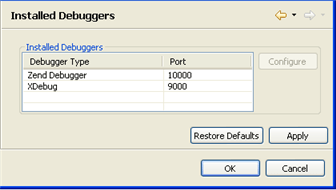
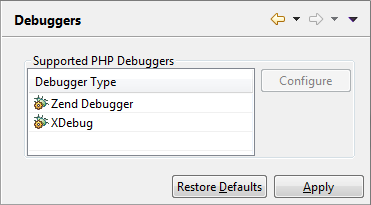
No Bug - Update HELP after recent changes for debuggers

diff --git a/plugins/org.eclipse.php.help/docs/source/008-getting_started/016-basic_tutorial/024-working_with_the_debugger.md b/plugins/org.eclipse.php.help/docs/source/008-getting_started/016-basic_tutorial/024-working_with_the_debugger.md
@@ -49,13 +49,11 @@ This procedure demonstrates how to debug a file using the internal debugger or y
  
  4\. Click the arrow next to the debug button ![debug_icon.png](images/debug_icon.png "debug_icon.png") on the toolbar and select **Debug Configurations...** -or- select **Run | Debug Configurations** from the main menu -or- right-click the file in PHP Explorer view and select **Debug Configurations....**  A Debug dialog will appear.
  
- 5\. Double-click the PHP Script option to create a new debug configuration.
-
-![New Debug Configuration](images/debug_phpscript_configuration.png "New Debug Configuration")
+ 5\. Double-click the PHP CLI Application option to create a new debug configuration.<p>![New Debug Configuration](images/debug_phpscript_configuration.png "New Debug Configuration")</p>
 
  6\. Enter a name for the new configuration.
  
- 7\. To debug the file using your PHP Executable debugger, select the PHP Executable option in the Debugger Location category.
+ 7\. To debug the file using your PHP Executable debugger, select the appropriate option in the **Runtime PHP** category. If no PHP Executables are available, click the **Installed PHPs** button and add a PHP Executable in the [PHP Executable Preferences](../../032-reference/032-preferences/056-php_executables/000-index.md) page.
  
  8\. Under PHP File, click **Browse** and select the "debug" file.
  
@@ -67,8 +65,7 @@ This procedure demonstrates how to debug a file using the internal debugger or y
  
  12\. A number of views will open with information about your script.
  
- 13\. The Debug View is where the debug stack trace is displayed and the debugging process can be monitored and controlled. <br />
-    ![Debug View](images/debug_view.png "Debug View") 
+ 13\. The Debug View is where the debug stack trace is displayed and the debugging process can be monitored and controlled. <p>![Debug View](images/debug_view.png "Debug View")</p> 
  
  14\. The debugging process will currently have stopped where your first `<?php label appears.`
  
@@ -78,13 +75,11 @@ This procedure demonstrates how to debug a file using the internal debugger or y
  
  17\. The Variable view will now display various information about the relevant variables and parameters through which the function was reached.
  
- 18\. In the editor window, place and hold the cursor over $worker_name, $worker_address, and $worker_phone. A tooltip appears displaying the variable values. <br />
-     ![Editor View While Debugging](images/debug_tutorial_editor.png "Editor View While Debugging")
+ 18\. In the editor window, place and hold the cursor over $worker\_name, $worker\_address, and $worker\_phone. A tooltip appears displaying the variable values.<p>![Editor View While Debugging](images/debug_tutorial_editor.png "Editor View While Debugging")</p>
  
  19\. Click Step Return. ![debug_step_return_icon.png](images/debug_step_return_icon.png "debug_step_return_icon.png") The cursor returns to line 103.  The Debug Output view will display the HTML output created up until the breakpoint, while the Browser Output view will show the current output to a browser.
  
- 20\. In the Debug view, click Resume ![resume_icon.png](images/resume_icon.png "resume_icon.png")  until the debugging process is terminated.  Notice that as the debugging process progresses, the Debug Output and Browser Output displays are updated. <br />
- ![Browser Output](images/debug_browser_output.png "Browser Output")
+ 20\. In the Debug view, click Resume ![resume_icon.png](images/resume_icon.png "resume_icon.png")  until the debugging process is terminated.  Notice that as the debugging process progresses, the Debug Output and Browser Output displays are updated.<p>![Browser Output](images/debug_browser_output.png "Browser Output")</p>
  
  21\. The console view will display any errors or warnings about your script. In this case, it will display a Notice about an undefined variable on line 105.
  
@@ -145,19 +140,21 @@ This procedure demonstrates how to debug applications on a server:
  
  4\. Click the arrow next to the debug button ![debug_icon.png](images/debug_icon.png "debug_icon.png")  on the toolbar and select Debug Configurations... -or- right-click the file in PHP explorer or within the file's editor window and select **Debug as | Debug Configurations....**  A Debug dialog will appear.
  
- 5\. Double-click on the PHP Web Page option to create a new debug configuration.
+ 5\. Double-click on the PHP Web Application option to create a new debug configuration.
  
  6\. Enter a name for the new configuration.
  
  7\. Select the Debugger from the Server Debugger drop-down list.
  
- 8\. Select your server from the drop-down list.  If you have not configured a server, click the PHP Servers link to be taken to the [PHP Servers Preferences](../../032-reference/032-preferences/080-php_servers.md) page.
+ 8\. Select your server from the drop-down list.  If you have not configured a server, click the **New** button to open a wizard for creating new PHP server..
  
  9\. Under the File/Project category, click **Browse** and select the "form1" file. This will be the file from which the debugger will start debugging (the 'debug target'.)
  
  10\. Ensure that the URL pointing to the file location is correct.  If this is not correct, unmark the Auto Generate checkbox and manually change the URL.
 
-![New Debug Configuration](images/debug_configuration_webpage.png "New Debug Configuration")
+![New Debug Configuration Server Page](images/debug_configuration_webpage_server.png "New Web Debug Configuration")
+
+![New Debug Configuration Debugger Page](images/debug_configuration_webpage_debugger.png "New Web Debug Configuration")
 
  11\. Click **Apply** and then **Debug**.
  

diff --git a/plugins/org.eclipse.php.help/docs/source/032-reference/032-preferences/032-debug/008-installed_debuggers.md b/plugins/org.eclipse.php.help/docs/source/032-reference/032-preferences/032-debug/008-installed_debuggers.md
@@ -1,38 +1,40 @@
-# Installed Debuggers
+# Debuggers
 
 <!--context:installed_debuggers-->
 
-The Installed Debuggers preferences page allows you to configure your Debugger settings.
+The Debuggers preferences page allows you to configure your Debugger settings.
 
-The Installed Debuggers Preferences page is accessed from **Window | Preferences | PHP | Debug | Installed Debuggers**.
+The Debuggers Preferences page is accessed from **Window | Preferences | PHP | Debug | Debuggers**.
 
 ![installed_debugger_preferences_pdt.png](images/installed_debugger_preferences_pdt.png "installed_debugger_preferences_pdt.png")
 
 <!--ref-start-->
 
-To configure your Zend Debugger settings:
+To e.g. configure your Zend Debugger settings:
 
  1. Select the Zend Debugger.
  2. Click Configure.  The Zend Debugger Settings dialog will open.
 
 ![zend_debugger_settings_pdt.png](images/zend_debugger_settings_pdt.png "zend_debugger_settings_pdt.png")
 
-1\. Configure the following:
+  You can configure the following:
    
- * Debug Port - The port which the Zend Debugger will use. The default port is 10137.
- * Run with Debug info - Mark the checkbox for Debug info, such as the Console view and the Browser Output, to be displayed when a Run configuration is executed.
  * Client Host/IP - Enter the Client Host/IP to which debugging results will be returned. PDT will automatically search for and recognize the  Client Host/IP, but entering a specific Host/IP will speed up the debugging process and decrease the likelihood of session timeouts.
+ * Debug Port - The port which the Zend Debugger will use. The default port is 10137.
+ * Debug Response Timeout (ms) - Debugger response timeout in milliseconds.
+ * Broadcast Port - The Broadcast Port allows your Zend Browser Toolbar to detect your debugging preferences. The Broadcast Port number entered here must match the Broadcast Port entered in your Zend Browser Toolbar. The default port is 20080.
+ * Dummy File Name - This is the file which the PHP Script debugger uses in order to test a PHP debugging session on a specified server. The name should be left as the default dummy.php. However, if this is changed, ensure the change has also been made on your server.
+ * Display debug information when running - Mark the checkbox for Debug info, such as the Console view and the Browser Output, to be displayed when a Run configuration is executed.
+ * Use New Protocol - This check-box is selected by default, and applies usage of the latest Zend Debugger engine. If you have encountered any issues with the Zend Debugger, de-select this check-box to revert to previous Zend Debugger protocol.
+ 
 
 <!--note-start-->
 
 #### Note:
 
-If the field contains too many host/IPs, the session could timeout before a debugging connection is established. Entering a non-existent host/IP could cause the session to terminate.
+Some of the debugger global settings (responsible for establishing a connection with debugger engine) can be overridden at the corresponding debugger owner level (PHP Server or PHP Executable). In case of setting up the individual connection settings for debugger owners, those will be taken into account while triggering debug session from IDE. If there is no possibility to find the debugger owner settings in IDE (e.g. when triggering the debug session outside the IDE with the use of browser toolbars) the global settings will be used to establish the connection.
 
- 1. Click OK to return to the Installed Debuggers Preferences page.
- 2. Click Apply to apply your settings.
- 
-<!--note-end-->
+<!--note-end--> 
 
 <!--ref-end-->
 
@@ -41,7 +43,7 @@ If the field contains too many host/IPs, the session could timeout before a debu
 #### Related Links:
 
  * [Debugging](../../../024-tasks/152-debugging/000-index.md)
- * [Installed Debuggers](008-installed_debuggers.md)
+ * [Debuggers](008-installed_debuggers.md)
  * [Workbench Options](024-launching.md)
  * [PHP Preferences](../../../032-reference/032-preferences/000-index.md)
 

diff --git a/plugins/org.eclipse.php.help/docs/source/024-tasks/152-debugging/032-debugging_a_php_web_page.md b/plugins/org.eclipse.php.help/docs/source/024-tasks/152-debugging/032-debugging_a_php_web_page.md
@@ -18,24 +18,25 @@ Your server must be running the XDebug or Zend Debugger in order for remote debu
 
 1\. Click the arrow next to the debug button ![debug_icon.png](images/debug_icon.png "debug_icon.png") on the toolbar and select Open Debug Dialog -or- select Run | Open Debug Dialog.  A Debug dialog will open.
 
-2\. Double-click the PHP Web Page option to create a new debug configuration. <br />![debug_configuration_webpage.png](images/debug_configuration_webpage.png "debug_configuration_webpage.png")
+2\. Double-click the PHP Web Application option to create a new debug configuration.<p>![Web Debug Server Page](images/debug_configuration_webpage_server.png "Web Debug Server Page")</p>
  
 3\. Enter a name for the new configuration.
 
-4\. Select the Server Debugger to be used . PDT supports both the Zend Debugger and XDebug.
+4\. Select your server from the PHP Server list.  If you have not yet configured your server, click New.  The PHP Server Creation Wizard will open.  Configure your server by following the instructions on '[adding a new server](../../032-reference/032-preferences/080-php_servers.md#Adding_servers)' under the [PHP Servers Preferences](../../032-reference/032-preferences/080-php_servers.md) page.
 
-5\. Select your server from the PHP Server list.  If you have not yet configured your server, click New.  The PHP Server Creation Wizard will open.  Configure your server by following the instructions on '[adding a new server](../../032-reference/032-preferences/080-php_servers.md#Adding_servers)' under the [PHP Servers Preferences](../../032-reference/032-preferences/080-php_servers.md) page.
-
-6\. To check whether your server connection is correctly configured, and that PDT can communicate with your server debugger, click the 'Check Debug Server Connection' button.
-
-7\. Under PHP File, click Browse and select your 'debug target' file (the file from which the debugging process will start.)
+5\. Under File, click Browse and select your 'debug target' file (the file from which the debugging process will start.)
  
-8\. Select whether the Debugger should stop at the first line of code by marking/unmarking the 'Break at First Line' checkbox.
+6\. The URL to be debugged will have been automatically created based on the file name and your server address. If the URL does not point to your debug target's location, unmark the Auto Generate checkbox and modify the URL.
+
+7\. To set up the options of a debugger that is attached to chosen PHP server, click on the **Debugger** tab.<p>![Web Debug Debugger Page](images/debug_configuration_webpage_debugger.png "Web Debug Debugger Page")</p>
+
+8\. To check whether your server connection is correctly configured, and that PDT can communicate with your server debugger, click the 'Test' button.
+
+9\. Select whether the Debugger should stop at the first line of code by marking/unmarking the 'Break at First Line' checkbox.
  
-9\. The URL to be debugged will have been automatically created based on the file name and your server address. If the URL does not point to your debug target's location, unmark the Auto Generate checkbox and modify the URL.
+10\. You can set some additional options that are related to the debugger type, e.g. the following options are available for Zend Debugger:
 
-10\. For further Debug options, select the Advanced tab, which has the following options:<br /> ![debug_new_phpwebpage_advanced_config_pdt.png](images/debug_new_phpwebpage_advanced_config_pdt.png "debug_new_phpwebpage_advanced_config_pdt.png")
-
+ * Debug Through SSH Tunnel - Mark if you would like to debug with the use of SSH tunnel.
  * Open in Browser - Mark if you would like the application to be displayed in PDT 's internal browser while it is debugged.
  * Choose whether to:
  * Debug All Pages - The specified page and all the pages linked to it are debugged. The browser waits for the debug of each page before displaying it.

diff --git a/plugins/org.eclipse.php.help/docs/source/024-tasks/152-debugging/024-locally_debugging_a_php_script.md b/plugins/org.eclipse.php.help/docs/source/024-tasks/152-debugging/024-locally_debugging_a_php_script.md
@@ -19,15 +19,14 @@ To locally debug a PHP Script:
  1. Set breakpoints at the relevant places in the file that you would like to debug by double-clicking the vertical marker bar to the left of the editor.
  2. Save the file.
  3. Click the arrow next to the debug button ![debug_icon.png](images/debug_icon.png "debug_icon.png") on the toolbar and select Debug Configurations... -or- select **Run | Debug Configurations....**  A Debug dialog will open.
- 4. Double-click the PHP Script option to create a new debug configuration. <br />![New Debug Configuration](images/debug_phpscript_configuration.png "New Debug Configuration")
+ 4. Double-click the PHP CLI Application option to create a new debug configuration.<p>![New Debug Configuration](images/debug_phpscript_configuration.png "New Debug Configuration")</p>
  5. Enter a name for the new configuration.
- 6. S elect the required PHP executable.   If no PHP Executables are listed, click the PHP Executable link and add a PHP Executable in the [PHP Executable Preferences](../../032-reference/032-preferences/056-php_executables/000-index.md) page. The PHP Executables must match the Debugger type.
- 7. Select the PHP Debugger to be used. PDT supports both the Zend Debugger and XDebug.
- 8. Enter your PHP file in the "PHP File" text field, or click **Browse** and select your file
- 9. Marking the "Breakpoint" checkbox will result in the debugging process pausing at the first line of code.
- 10. If necessary, you can add arguments in the PHP Script Arguments tab to simulate command line inputs.
- 11. Click **Apply**and then **Debug**.
- 12. Click **Yes**if asked whether to open the PHP Debug Perspective.
+ 6. Select the appropriate PHP Executable in **Runtime PHP** section. If no PHP Executables are available, click the **Installed PHPs** button and add a PHP Executable in the [PHP Executable Preferences](../../032-reference/032-preferences/056-php_executables/000-index.md) page.
+ 7. Enter your PHP file in the "PHP File" text field, or click **Browse** and select your file
+ 8. Marking the "Break at First Line" checkbox will result in the debugging process pausing at the first line of code.
+ 9. If necessary, you can add arguments in the Script Arguments section to simulate command line inputs.
+ 10. Click **Apply** and then **Debug**.
+ 11. Click **Yes** if asked whether to open the PHP Debug Perspective.
 
 A number of views will open with relevant debug information.
 

diff --git a/plugins/org.eclipse.php.help/docs/source/032-reference/032-preferences/056-php_executables/000-index.md b/plugins/org.eclipse.php.help/docs/source/032-reference/032-preferences/056-php_executables/000-index.md
@@ -14,7 +14,7 @@ You must configure a PHP Executable before you can debug locally.
 
 <!--note-end-->
 
-The PHP Executables Preferences Preferences page is accessed from Window | Preferences | PHP | PHP Executables Preferences .
+The PHP Executables Preferences Preferences page is accessed from Window | Preferences | PHP | PHP Executables.
 
 ![php_executables.png](images/php_executables.png "php_executables.png")
 
@@ -22,17 +22,17 @@ The PHP Executables Preferences Preferences page is accessed from Window | Prefe
 
 To add a PHP executable to the list:
 
- 1. Click Add.  The Add PHP Executable dialog will appear.
-
-![php_executable_add_pdt.png](images/php_executable_add_pdt.png "php_executable_add_pdt.png")
-
+ 1. Click Add.  The Add PHP Executable dialog will appear.<p>![php_executable_add_pdt.png](images/php_executable_add_pdt.png "php_executable_add_pdt.png")</p>
  2. Enter a name for the PHP Executable.
  3. In the Executable path selection, enter the location of the PHP executable on your file system.
  4. Select the PHP ini file to be associated with the PHP Executable by clicking Browse (optional).
- 5. Select the PHP Debugger to be used with the executable. By default this will be the Zend Debugger.
- 6. Click Finish.
+ 5. Press Next to open page with debugger settings.<p>![php_executable_add_debug_pdt.png](images/php_executable_add_debug_pdt.png "php_executable_add_debug_pdt.png")</p>
+ 6. If there is a need, change the default debugger connection settings.
+ 7. Click Finish.
 
 The PHP executable will be added to your list.
+
+![php_executables_added.png](images/php_executables_added.png "php_executables_added.png")
 
 <!--ref-end-->
 
@@ -47,8 +47,6 @@ To search for a PHP executable on your local file system:
 Any found PHP executables will be added to the list.
 
 To change the name of the new PHP executable, select it from the list and click Edit.
-
-If a PHP executable is not found in the specified directory, select a different location or add the PHP Executable manually by following the instructions under '[To add a PHP executable to the list](#add-executable)', above.
 
 <!--ref-end-->
 

diff --git a/plugins/org.eclipse.php.help/docs/source/024-tasks/152-debugging/048-troubleshooting_remote_debugging/000-index.md b/plugins/org.eclipse.php.help/docs/source/024-tasks/152-debugging/048-troubleshooting_remote_debugging/000-index.md
@@ -19,7 +19,7 @@ To set up communication between PDT and the server on which you are debugging:
  1. Ensure the Zend Debugger is installed on your server.  The Zend Debugger comes bundled with [Zend Server](http://www.zend.com/en/products/server), [Zend Core](http://www.zend.com/en/products/core/) and [Zend Platform](http://www.zend.com/en/products/platform/), but can also be downloaded as a separate component from [http://www.zend.com/en/products/studio/downloads](http://www.zend.com/en/products/studio/downloads).
  2. Ensure the machine on which your PDT is installed is an allowed host for your debugger.   See [Setting your PDT to be an Allowed Host](008-setting_your_zend_studio_for_eclipse_to_be_an_allowed_host.md) for more information.
  3. In PDT , configure your server according to the instructions under [Adding Servers](../../../032-reference/032-preferences/080-php_servers.md#Adding_servers) in the [PHP Servers Preferences](../../../032-reference/032-preferences/080-php_servers.md).
- 4. Ensure the correct settings are configured in your [Debug Preferences](../../../032-reference/032-preferences/032-debug/000-index.md) and [Installed Debuggers Preferences](../../../032-reference/032-preferences/032-debug/008-installed_debuggers.md) pages.
+ 4. Ensure the correct settings are configured in your [Debug Preferences](../../../032-reference/032-preferences/032-debug/000-index.md) and [Debuggers Preferences](../../../032-reference/032-preferences/032-debug/008-installed_debuggers.md) pages.
  5. [Ensure you have a dummy.php file](016-ensuring_the_placement_of_dummy_php.md) in your remote server's document root.
 
 <!--ref-end-->

diff --git a/plugins/org.eclipse.php.help/docs/source/032-reference/032-preferences/080-php_servers.md b/plugins/org.eclipse.php.help/docs/source/032-reference/032-preferences/080-php_servers.md
@@ -14,16 +14,20 @@ One server configuration setting is configured by default and will point to the 
 
 To add a new server to the list or edit an existing server configuration:
 
- 1. Click New  -Or- select an existing server and click Edit. <br /> ![PHP Server Creation page](images/php_servers_new_pdt.png "PHP Server Creation page")
+ 1. Click New  -Or- select an existing server and click Edit.<p>![PHP Server Creation page](images/php_servers_new_pdt.png "PHP Server Creation page")</p>
  2. Enter the name of your server.
  3. Enter the URL that points to its document root.
- 4. Click  Next.  The Server Path Mapping dialog appears.
- 5. If you would like to map a path on your server to a local path, click Add and enter:
+ 4. Click Next. The Debugger settings page should appear.<p>![PHP Server Creation page](images/php_servers_new_debug_pdt.png "PHP Server Creation page")</p>
+ 5. If there is a need, change the default debugger type and connection settings.
+ 6. Click Next. The Server Path Mapping page should appear.
+ 7. If you would like to map a path on your server to a local path, click Add and enter:
     * The path on your server.
     * The path you would like to map it to in your Workspace or on your File System.  See [Adding a Server Location Path Map](../../024-tasks/184-adding_a_server_path_map.md) for more information.
- 6. Click Finish.
+ 8. Click Finish.
 
-Your new server configuration will be added to the server list .
+Your new server configuration will be added to the server list.
+
+![PHP Servers Preferences](images/php_servers_added_pdt.png "PHP Servers Preferences")
 
 <!--ref-end-->
 

diff --git a/plugins/org.eclipse.php.help/docs/source/032-reference/032-preferences/032-debug/000-index.md b/plugins/org.eclipse.php.help/docs/source/032-reference/032-preferences/032-debug/000-index.md
@@ -12,8 +12,7 @@ The settings that can be configured from the debug preferences page are:
 
 Default Settings
 
- * PHP Debugger - Select which debugger will be used by default.
- * Server - Choose which server the debugger will use by default. Click the "PHP Servers" category to be taken to the PHP Servers management page. For more on this, see [PHP Servers.](../../../032-reference/032-preferences/080-php_servers.md)
+ * PHP Server - Choose which server the debugger will use by default. Click the "PHP Servers" category to be taken to the PHP Servers management page. For more on this, see [PHP Servers.](../../../032-reference/032-preferences/080-php_servers.md)
  * PHP Executable - Choose the required default PHP version. Click the "PHP Executables" category to be taken to the PHP Executables management page. For more on this, see [PHP Executables.](../../../032-reference/032-preferences/056-php_executables/000-index.md)
 
 Encoding Settings
@@ -47,7 +46,7 @@ To apply Debug Preferences settings to a specific project only:
 #### Related Links:
 
  * [Debugging](../../../024-tasks/152-debugging/000-index.md)
- * [Installed Debuggers](008-installed_debuggers.md)
+ * [Debuggers](008-installed_debuggers.md)
  * [Workbench Options](024-launching.md)
  * [PHP Preferences](../../../032-reference/032-preferences/000-index.md)
 

diff --git a/plugins/org.eclipse.php.help/docs/source/024-tasks/152-debugging/048-troubleshooting_remote_debugging/008-setting_your_zend_studio_for_eclipse_to_be_an_allowed_host.md b/plugins/org.eclipse.php.help/docs/source/024-tasks/152-debugging/048-troubleshooting_remote_debugging/008-setting_your_zend_studio_for_eclipse_to_be_an_allowed_host.md
@@ -11,9 +11,9 @@ If only the standalone Zend Debugger is installed on your server:
 To configure your debugger to allow your PDT to debug:
 
  1. Open your php.ini file.
- 2. Edit the zend_debugger.allow_hosts parameters to include the IP address of the machine on which your PDT is installed.  e.g. zend_debugger.allow_hosts=127.0.0.1/32
- 3. Ensure the address is not in your zend_debugger.deny_hosts parameter list.
- 4. Set the Debug Server to expose itself to remote clients by setting the zend_debugger.expose_remotely parameter to Always.  (e.g. zend_debugger.expose_remotely=always).
+ 2. Edit the zend\_debugger.allow\_hosts parameters to include the IP address of the machine on which your PDT is installed.  e.g. zend\_debugger.allow\_hosts=127.0.0.1/32
+ 3. Ensure the address is not in your zend\_debugger.deny\_hosts parameter list.
+ 4. Set the Debug Server to expose itself to remote clients by setting the zend\_debugger.expose\_remotely parameter to Always.  (e.g. zend\_debugger.expose\_remotely=always).
  5. Save the file.
  6. Restart your Web server for the settings to take effect.
 

diff --git a/plugins/org.eclipse.php.help/docs/source/016-concepts/128-debugging_concept.md b/plugins/org.eclipse.php.help/docs/source/016-concepts/128-debugging_concept.md
@@ -18,7 +18,7 @@ See [Locally Debugging a PHP Script](../024-tasks/152-debugging/024-locally_debu
 
 #### Note:
 
-Your server must be running the XDebug or Zend Debugger in order for remote debugging  capabilities to function.
+Your PHP executable must be running the XDebug or Zend Debugger in order for remote debugging  capabilities to function.
 
 <!--note-end-->
 
@@ -40,7 +40,7 @@ See [Debugging a PHP Web Page](../024-tasks/152-debugging/032-debugging_a_php_we
 
 #### Note:
 
-Your server must be running the XDebug or Zend Debugger in order for remote debugging  capabilities to function.
+Your PHP server must be running the XDebug or Zend Debugger in order for remote debugging  capabilities to function.
 
 <!--note-end-->
 

diff --git a/plugins/org.eclipse.php.help/docs/source/024-tasks/152-debugging/048-troubleshooting_remote_debugging/016-ensuring_the_placement_of_dummy_php.md b/plugins/org.eclipse.php.help/docs/source/024-tasks/152-debugging/048-troubleshooting_remote_debugging/016-ensuring_the_placement_of_dummy_php.md
@@ -22,8 +22,8 @@ You must also ensure that the Dummy File name is set to 'dummy.php' in PDT .
 
 To check your dummy file configuration in PDT :
 
- 1. Open the Installed Debugger Preferences page by going to Windows| Preferences | PHP | Debug | Installed Debuggers.
- 2. In the Installed Debuggers list, select the Zend Debugger and click Configure.  The Zend Debugger Settings dialog will open.
+ 1. Open the Installed Debugger Preferences page by going to Windows| Preferences | PHP | Debug | Debuggers.
+ 2. In the Debuggers list, select the Zend Debugger and click Configure.  The Zend Debugger Settings dialog will open.
  3. In the Dummy File Name setting, ensure 'dummy.php' is entered.
 
 <!--note-start-->

diff --git a/plugins/org.eclipse.php.help/docs/source/032-reference/032-preferences/000-index.md b/plugins/org.eclipse.php.help/docs/source/032-reference/032-preferences/000-index.md
@@ -39,9 +39,9 @@ To access this menu, go to Window menu and select **Preferences | PHP**.
 
 <td>Configure your debug preferences.</td></tr>
 
-<tr><td>[Installed Debuggers](../../032-reference/032-preferences/032-debug/008-installed_debuggers.md)</td>
+<tr><td>[Debuggers](../../032-reference/032-preferences/032-debug/008-installed_debuggers.md)</td>
 
-<td>Configure the settings for your installed debuggers.</td></tr>
+<td>Configure the settings for your debuggers.</td></tr>
 
 <tr><td>[Workbench Options](../../032-reference/032-preferences/032-debug/024-launching.md)</td>
 
